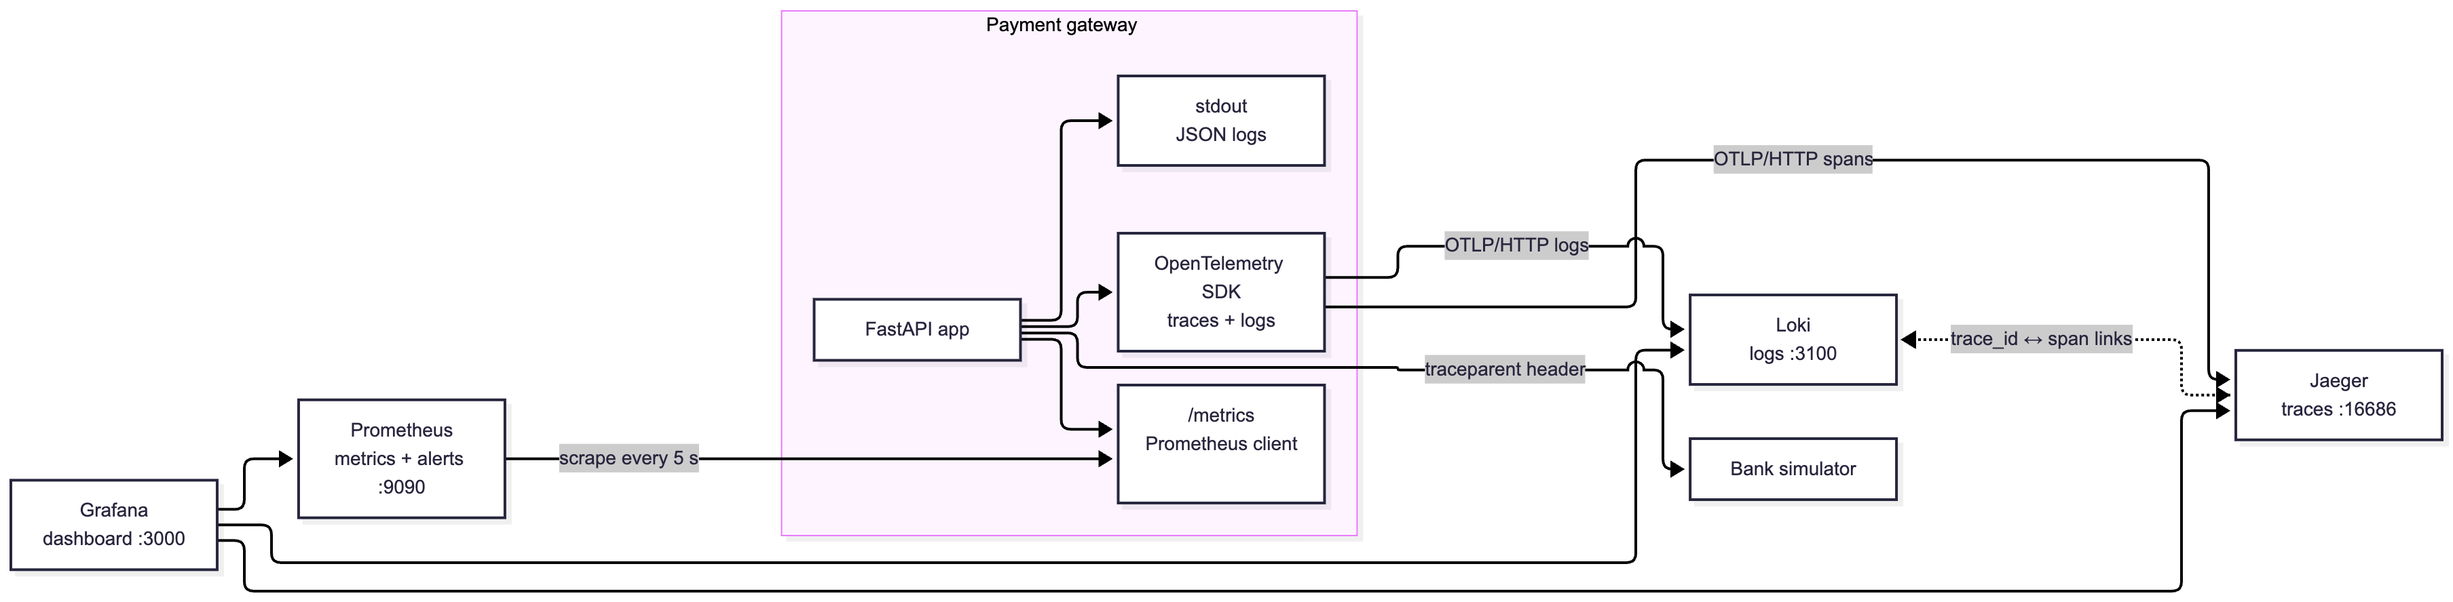
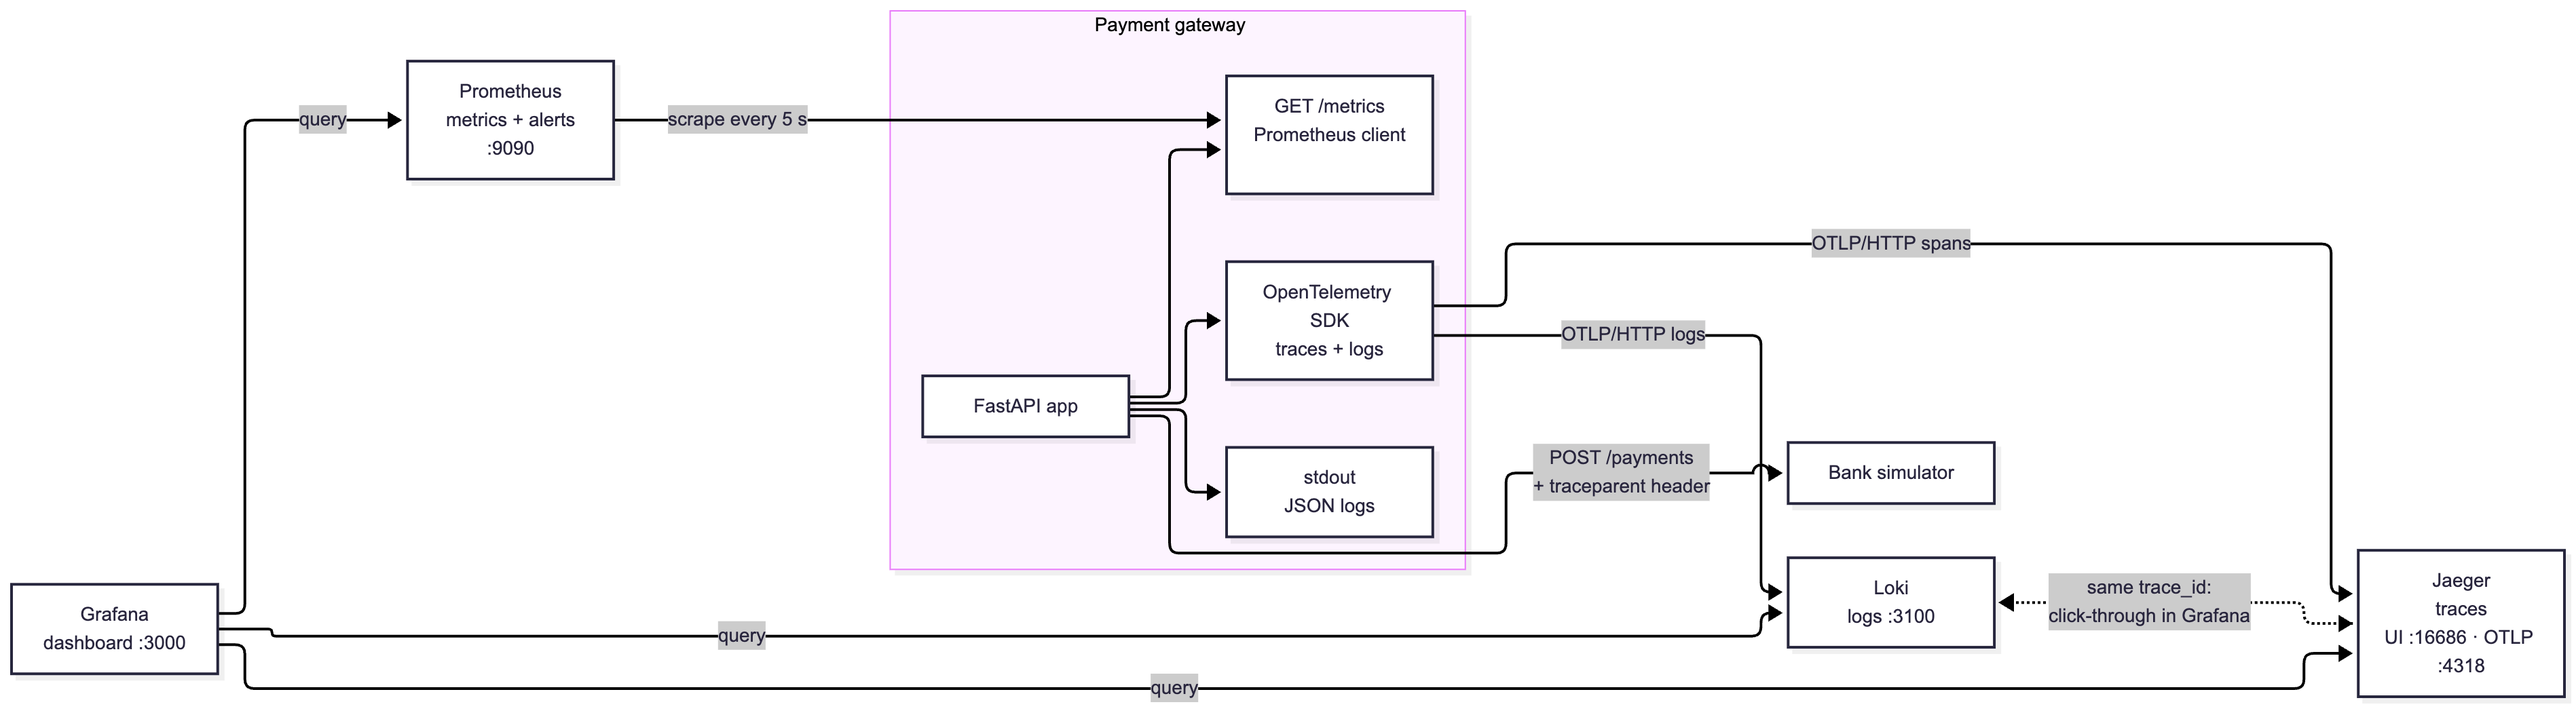
docs: update observability diagram

diff --git a/README.md b/README.md
@@ -240,6 +240,9 @@ Grafana is provisioned from `observability/grafana/`: Prometheus, Jaeger and Lok
 - In a **log line**, the `trace_id` field opens the trace in Jaeger.
 - On a **span**, "Logs for this span" opens its log lines in Loki.
 
+Loki and Jaeger never talk to each other (dotted line in the diagram): both store the same `trace_id`, and Grafana
+builds the links from it.
+
 No OTel collector locally: the gateway sends straight to Jaeger and Loki. In production a collector would sit in
 between (see [below](#observability)).
 
